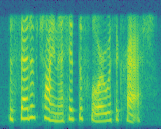
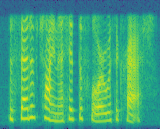
Add spectrograms

diff --git a/figures/tikz/spectrogram.tex b/figures/tikz/spectrogram.tex
@@ -1,4 +1,4 @@
-% This file was created by tikzplotlib v0.9.6.
+% This file was created by tikzplotlib v0.9.8.
 \begin{tikzpicture}
 
 \begin{groupplot}[group style={group size=1 by 3}]
@@ -10,14 +10,14 @@ tick pos=left,
 title={Clean},
 x grid style={white},
 xmajorgrids,
-xmin=0.008, xmax=2.584,
+xmin=0.008, xmax=2.568,
 xtick style={color=white!33.3333333333333!black},
 y grid style={white},
 ymajorgrids,
 ymin=0, ymax=4000,
 ytick style={color=white!33.3333333333333!black}
 ]
-\addplot graphics [includegraphics cmd=\pgfimage,xmin=0.008, xmax=2.584, ymin=0, ymax=4000] {spectrogram-000.png};
+\addplot graphics [includegraphics cmd=\pgfimage,xmin=0.008, xmax=2.568, ymin=0, ymax=4000] {spectrogram-000.png};
 
 \nextgroupplot[
 axis background/.style={fill=white!89.8039215686275!black},
@@ -27,14 +27,14 @@ tick pos=left,
 title={Noised},
 x grid style={white},
 xmajorgrids,
-xmin=0.008, xmax=2.584,
+xmin=0.008, xmax=2.568,
 xtick style={color=white!33.3333333333333!black},
 y grid style={white},
 ymajorgrids,
 ymin=0, ymax=4000,
 ytick style={color=white!33.3333333333333!black}
 ]
-\addplot graphics [includegraphics cmd=\pgfimage,xmin=0.008, xmax=2.584, ymin=0, ymax=4000] {spectrogram-001.png};
+\addplot graphics [includegraphics cmd=\pgfimage,xmin=0.008, xmax=2.568, ymin=0, ymax=4000] {spectrogram-001.png};
 
 \nextgroupplot[
 axis background/.style={fill=white!89.8039215686275!black},
@@ -45,7 +45,7 @@ title={Filtered},
 x grid style={white},
 xlabel={Time s},
 xmajorgrids,
-xmin=0.008, xmax=2.584,
+xmin=0.008, xmax=2.568,
 xtick style={color=white!33.3333333333333!black},
 y grid style={white},
 ylabel={Hz},
@@ -53,7 +53,7 @@ ymajorgrids,
 ymin=0, ymax=4000,
 ytick style={color=white!33.3333333333333!black}
 ]
-\addplot graphics [includegraphics cmd=\pgfimage,xmin=0.008, xmax=2.584, ymin=0, ymax=4000] {spectrogram-002.png};
+\addplot graphics [includegraphics cmd=\pgfimage,xmin=0.008, xmax=2.568, ymin=0, ymax=4000] {spectrogram-002.png};
 \end{groupplot}
 
 \end{tikzpicture}

diff --git a/spectrograms.py b/spectrograms.py
@@ -7,6 +7,9 @@ fs, y = wavfile.read("data/speech/clean.wav")
 fs, x = wavfile.read("data/speech/noised.wav")
 fs, z = wavfile.read("data/speech/filtered.wav")
 
+y = y[0:len(y) - 100]
+x = x[0:len(x) - 100]
+z = z[0:len(z) - 100]
 
 fig, axs = plt.subplots(3)
 axs[0].specgram(y, Fs=fs)
